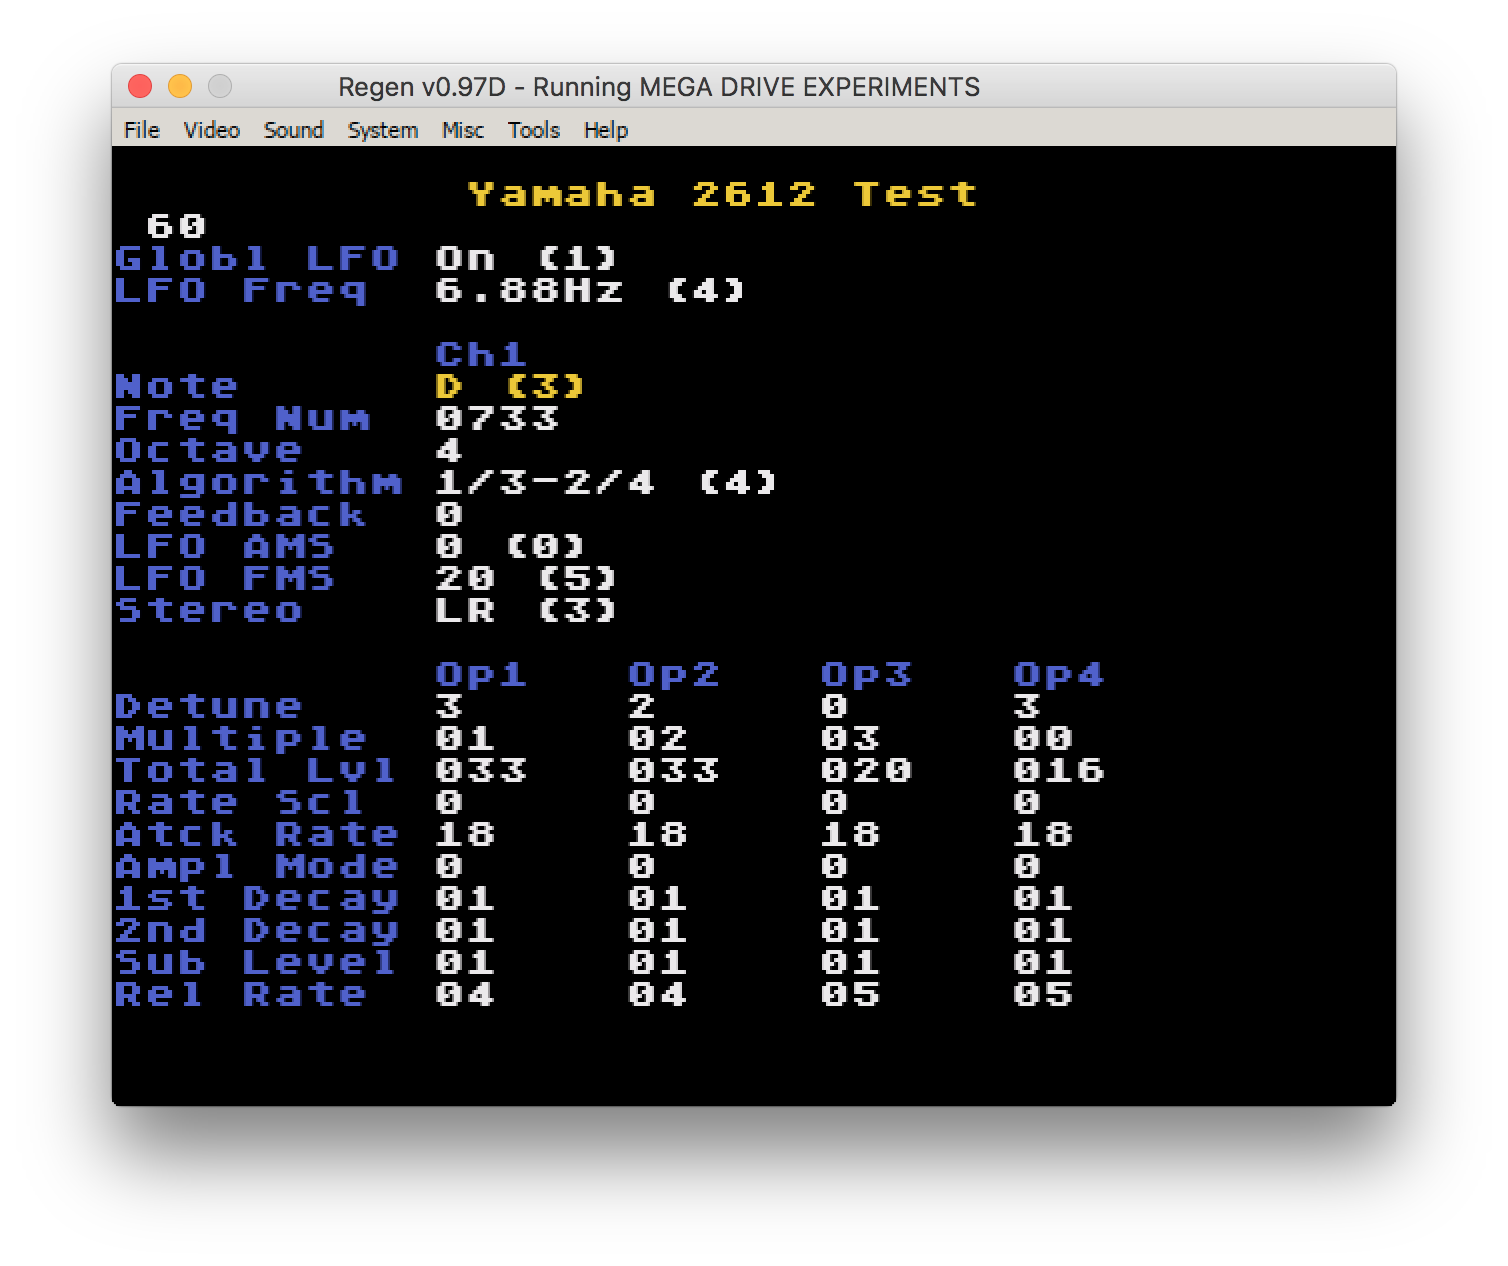
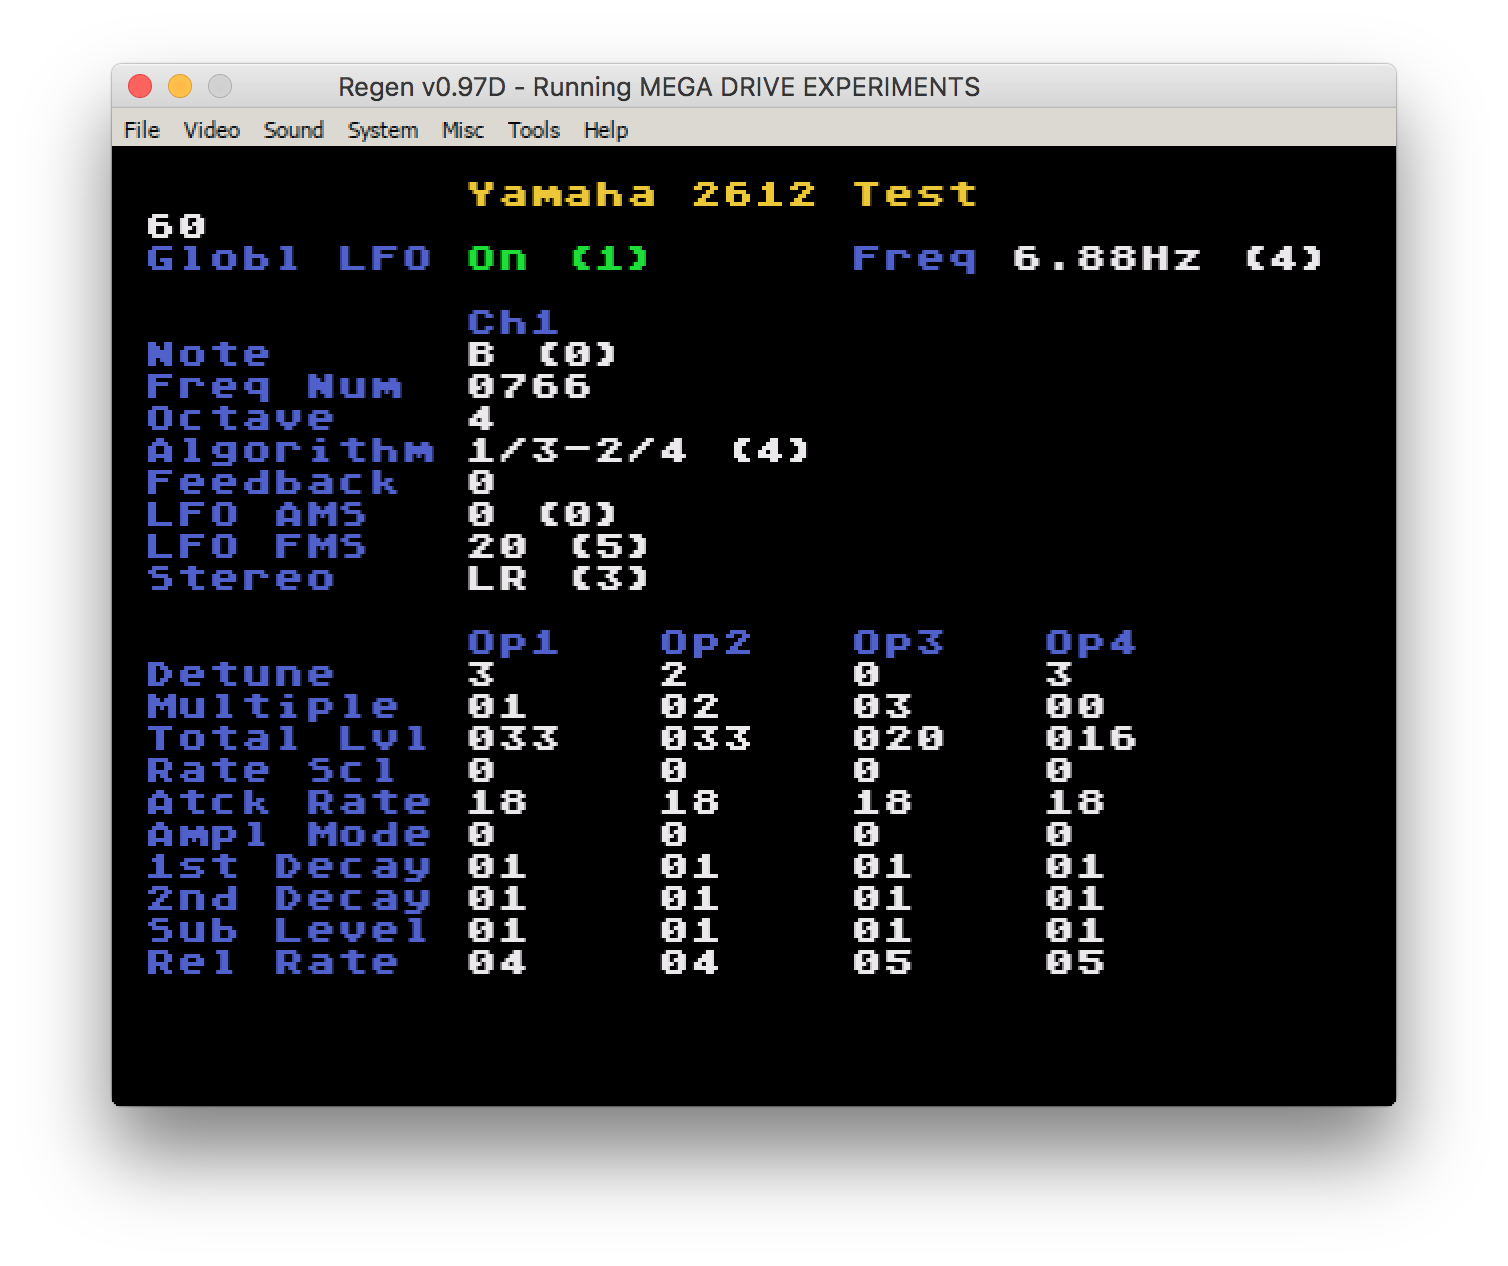
Refactor; update screenshot

diff --git a/src/ui_display.c b/src/ui_display.c
@@ -95,10 +95,8 @@ void display_updateUiIfRequired(Channel *chan, u8 selection)
 
 static void printGlobalParameters(u8 selection)
 {
-    u16 row = GLOBAL_PARAMETERS_TOP_ROW;
-
-    printParameter(0, LEFT_MARGIN, FM_PARAMETERS_VALUE_COLUMN, row, selection);
-    printParameter(1, 23, 28, row, selection);
+    printParameter(0, LEFT_MARGIN, FM_PARAMETERS_VALUE_COLUMN, GLOBAL_PARAMETERS_TOP_ROW, selection);
+    printParameter(1, 23, 28, GLOBAL_PARAMETERS_TOP_ROW, selection);
 }
 
 static void printParameter(u16 index, u16 heading_x, u16 value_x, u16 y, u8 selection)
